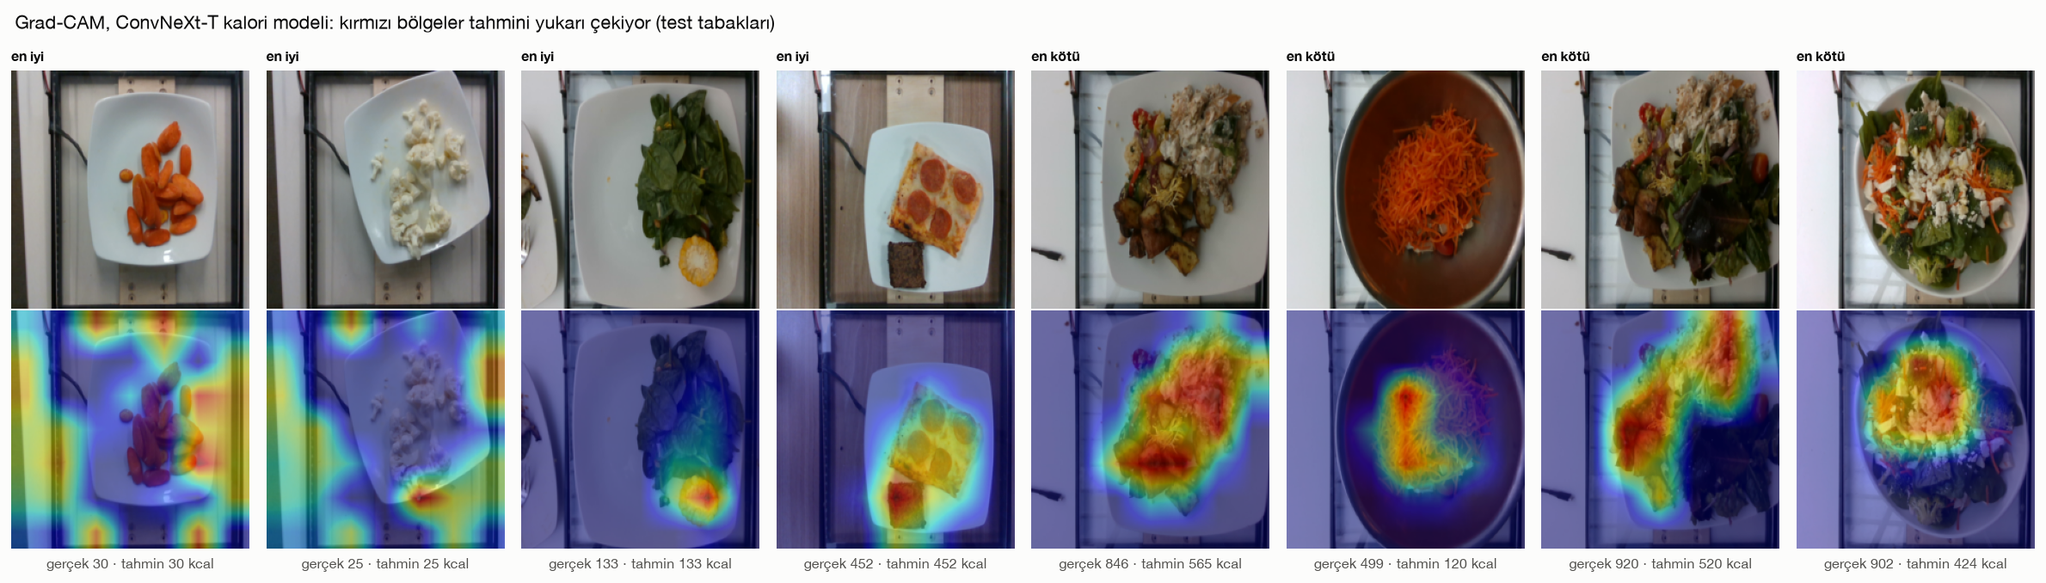
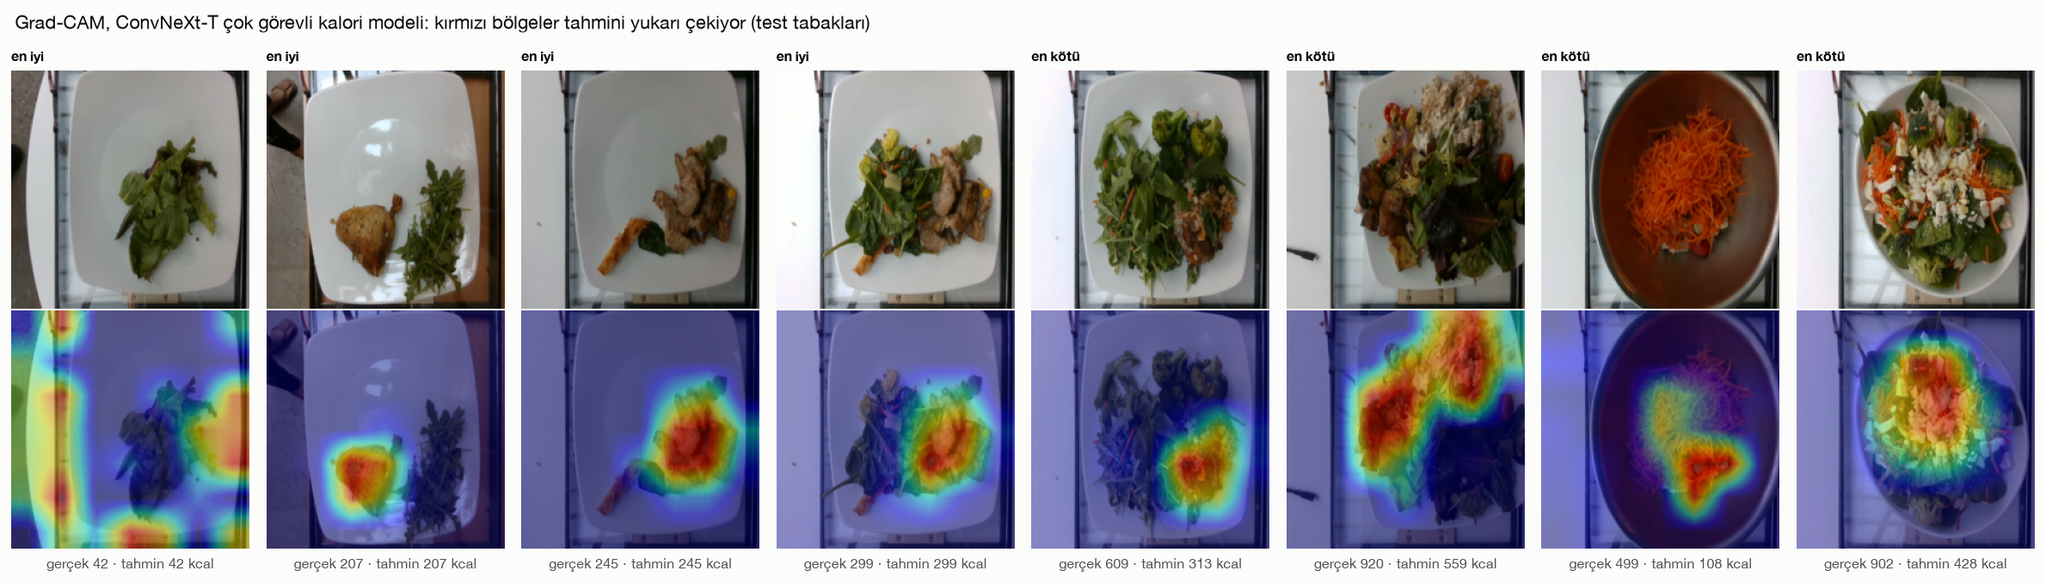
Adım 20: figürler final modellerle, ROC figürü, kod temizliği; README/context güncel

diff --git a/src/make_figures.py b/src/make_figures.py
@@ -17,11 +17,12 @@ görüntüleri kullanır (yoksa gri kutu çizilir). Her figür için README'ye y
     eval_model_karsilastirma.png  test MAE + %95 güven aralığı, literatür referans çizgileri
     eval_egitim_egrileri.png      doğrulama skoru – epoch
     eval_en_kotu_tabaklar.png     en kötü 20 tabak ızgarası, eval_en_kotu_20.csv → Adım 16
+    eval_roc.png                  ROC eğrileri (bire-karşı-hepsi): final sınıflandırıcının 25 sınıfı + modellerin makro
+                                  ortalaması; results/probs/ varsa (notebook 13)
     tablo1.md, tablo2.md, tablo3_kalori_araligi.md   rapora yapıştırılacak markdown tablolar
 
-TODO (Adım 16): Grad-CAM / attention haritaları için kanca — en kötü 20 tabağın kimlikleri eval_en_kotu_20.csv'de;
-checkpoint indirildikten sonra (Release `checkpoints`, ~111 MB) `src.models.build_model` ile yüklenip bu kimlikler
-üzerinde çalıştırılacak. Bu betik checkpoint gerektirmez.
+Grad-CAM (Adım 16) ayrı betikte: `python -m src.gradcam --ckpt checkpoints/<model>.pt` (checkpoint gerekir);
+en kötü 20 tabağın kimlikleri eval_en_kotu_20.csv'de. Bu betik checkpoint gerektirmez.
 """
 import argparse
 import math
@@ -31,7 +32,7 @@ import matplotlib.pyplot as plt
 import numpy as np
 import pandas as pd
 from PIL import Image
-from sklearn.metrics import confusion_matrix, f1_score
+from sklearn.metrics import auc, confusion_matrix, f1_score, roc_curve
 
 from . import plot_style
 from .config import CALORIE_BIN_EDGES, N5K_DIR, RESULTS_DIR
@@ -379,6 +380,40 @@ def fig_training_curves(hist_reg, hist_cls):
     return fig
 
 
+def macro_roc(y_true, probs, grid=None):
+    """Bire-karşı-hepsi ROC: sınıf eğrileri ve ortak FPR ızgarasında makro ortalama eğri (+ makro AUC)."""
+    grid = np.linspace(0, 1, 1001) if grid is None else grid
+    y_true, probs = np.asarray(y_true), np.asarray(probs, dtype=float)
+    curves, tprs = [], []
+    for k in range(probs.shape[1]):
+        fpr, tpr, _ = roc_curve(y_true == k, probs[:, k])
+        curves.append((fpr, tpr))
+        tprs.append(np.interp(grid, fpr, tpr))
+    mean_tpr = np.mean(tprs, axis=0)
+    mean_tpr[0] = 0.0
+    return curves, grid, mean_tpr, float(np.mean([auc(f, t) for f, t in curves]))
+
+
+def fig_roc(main_name, main_curves, macro):
+    """Sol: ana modelin 25 sınıf eğrisi (gri) + makro ortalaması. Sağ: modellerin makro eğrileri, FPR log ekseninde
+    (AUC'lar 0,997–0,998 olduğundan farklar yalnızca düşük FPR'de görünür)."""
+    fig, (a1, a2) = plt.subplots(1, 2, figsize=(10, 4.4))
+    for fpr, tpr in main_curves:
+        a1.plot(fpr, tpr, color=AXIS, lw=0.8)
+    grid, mean_tpr, mauc = macro[main_name]
+    a1.plot(grid, mean_tpr, color=SERIES[0], label=f"makro ortalama (AUC {fmt_tr(mauc, 3)})")
+    a1.plot([0, 1], [0, 1], ls=":", color=INK["muted"], lw=1)
+    a1.set(xlabel="Yanlış pozitif oranı", ylabel="Doğru pozitif oranı", title=f"ROC, sınıf başına — {main_name}")
+    a1.legend(loc="lower right")
+    for i, (name, (grid, mean_tpr, mauc)) in enumerate(macro.items()):
+        a2.plot(grid[1:], mean_tpr[1:], color=SERIES[i % len(SERIES)], lw=1.6, label=f"{name} ({fmt_tr(mauc, 3)})")
+    a2.set_xscale("log")
+    a2.set(xlim=(1e-3, 1), xlabel="Yanlış pozitif oranı (log)", ylabel="Doğru pozitif oranı", title="Makro ROC, modeller")
+    a2.legend(loc="lower right", fontsize=8)
+    fig.tight_layout()
+    return fig
+
+
 def fig_worst_dishes(worst, img_dir, ncols=5, w=2.6):
     """worst: id, y_true, y_pred, abs_error, has_fish. Görüntü yoksa gri kutu."""
     ncols = max(1, min(ncols, len(worst)))
@@ -406,10 +441,10 @@ def fig_worst_dishes(worst, img_dir, ncols=5, w=2.6):
 
 def parse_args(argv=None):
     ap = argparse.ArgumentParser(description="Adım 15 değerlendirme figürleri ve Tablo 1–3 (results/ kayıtlarından).")
-    ap.add_argument("--cls-model", default="vit_b16_cls", help="karışıklık matrisi ve sınıf F1 için model")
+    ap.add_argument("--cls-model", default="vit_b16_384_cls", help="karışıklık matrisi ve sınıf F1 için model")
     ap.add_argument("--cls-second", default="convnext_tiny_cls", help="sınıf F1 üstüne bindirilecek ikinci model ('' = yok)")
-    ap.add_argument("--reg-model", default="convnext_tiny_reg", help="saçılım, histogram ve en kötü tabaklar için model")
-    ap.add_argument("--reg-second", default="vit_b16_reg", help="histograma bindirilecek ikinci model ('' = yok)")
+    ap.add_argument("--reg-model", default="convnext_tiny_reg_mt", help="saçılım, histogram ve en kötü tabaklar için model")
+    ap.add_argument("--reg-second", default="convnext_tiny_reg", help="histograma bindirilecek ikinci model ('' = yok)")
     ap.add_argument("--worst-k", type=int, default=20)
     ap.add_argument("--results-dir", type=Path, default=RESULTS_DIR, help="results.csv, preds/, history/ burada; md/csv çıktıları buraya")
     ap.add_argument("--figures-dir", type=Path, default=None, help="varsayılan: <results-dir>/figures")
@@ -515,7 +550,22 @@ def main(argv=None):
     print(f"\nEn kötü {len(worst)} tabak → results/eval_en_kotu_20.csv  (balıklı: {int(worst.has_fish.sum())})")
     print(worst[["id", "y_true", "y_pred", "abs_error", "has_fish", "top_ingredients"]].round(0).to_string(index=False), "\n")
 
-    # 10. tablolar
+    # 10. ROC eğrileri (olasılıklar yalnızca notebook 13'ten sonra var)
+    probs_dir = results_dir / "probs"
+    roc_models = [m for m in HISTORY_CLS[::-1] if (probs_dir / f"{m}_test.npz").exists()]
+    if args.cls_model in roc_models:
+        macro, main_curves = {}, None
+        for m in roc_models:
+            d = np.load(probs_dir / f"{m}_test.npz")
+            curves, grid, mean_tpr, mauc = macro_roc(d["y_true"], d["probs"])
+            macro[fig_name(m)] = (grid, mean_tpr, mauc)
+            if m == args.cls_model:
+                main_curves = curves
+        save(fig_roc(cls_name, main_curves, macro), "eval_roc")
+        caption("eval_roc", f"ROC eğrileri (Food-101 test, bire-karşı-hepsi). Sol: {cls_name}, 25 sınıf (gri) ve makro "
+                "ortalama. Sağ: beş modelin makro eğrisi, yanlış pozitif oranı log ölçekte; parantezde makro ROC-AUC.")
+
+    # 11. tablolar
     for name, text in [("tablo1.md", tablo1_md(results)), ("tablo2.md", tablo2_md(results)),
                        ("tablo3_kalori_araligi.md", tablo3_md(results)),
                        ("tablo_ablation.md", tablo_ablation_md(results))]:

diff --git a/src/gradcam.py b/src/gradcam.py
@@ -1,8 +1,8 @@
 """Grad-CAM: kalori modelinin tabağın neresine baktığı (Adım 15 figürü).
 
 Kullanım:
-    python -m src.gradcam --ckpt checkpoints/convnext_tiny_reg.pt            # → results/figures/eval_gradcam.png
-    python -m src.gradcam --ckpt checkpoints/convnext_tiny_reg.pt --n 4 --device cpu
+    python -m src.gradcam --ckpt checkpoints/convnext_tiny_reg_mt.pt           # → results/figures/eval_gradcam.png
+    python -m src.gradcam --ckpt checkpoints/convnext_tiny_reg_mt.pt --n 4 --device cpu
 
 Regresyonda "sınıf skoru" yok; tahmin edilen kalorinin son evre özellik haritasına göre gradyanı alınır.
 Isı haritası kırmızıysa o bölge tahmini yukarı çekiyor. Hangi tabaklar: tahmin dosyasındaki en iyi n
@@ -59,7 +59,7 @@ def gradcam(model, x, layer):
 def main():
     ap = argparse.ArgumentParser(description=__doc__, formatter_class=argparse.RawDescriptionHelpFormatter)
     ap.add_argument("--ckpt", required=True)
-    ap.add_argument("--preds", default=str(RESULTS_DIR / "preds" / "convnext_tiny_reg.csv"))
+    ap.add_argument("--preds", default=str(RESULTS_DIR / "preds" / "convnext_tiny_reg_mt.csv"))
     ap.add_argument("--n", type=int, default=4, help="en iyi n + en kötü n tabak")
     ap.add_argument("--device", default="cpu", help="cpu güvenli; mps'te backward kancaları bazen boş döner")
     ap.add_argument("--out", default="eval_gradcam")
@@ -95,7 +95,7 @@ def main():
             a.set_xticks([]); a.set_yticks([]); a.grid(False)
             for sp in a.spines.values():
                 sp.set_visible(False)
-    fig.suptitle("Grad-CAM, ConvNeXt-T kalori modeli: kırmızı bölgeler tahmini yukarı çekiyor (test tabakları)", x=0.01, ha="left")
+    fig.suptitle("Grad-CAM, ConvNeXt-T çok görevli kalori modeli: kırmızı bölgeler tahmini yukarı çekiyor (test tabakları)", x=0.01, ha="left")
     fig.tight_layout()
     path = plot_style.savefig(fig, args.out, dpi=130)
     print(f"kaydedildi: {path}")

diff --git a/tests/test_make_figures.py b/tests/test_make_figures.py
@@ -114,11 +114,16 @@ def test_main_smoke_on_synthetic_data(tmp_path):
             ingr = ["ingr_1", "fish" if i % 5 == 0 else "rice", 100, c, 1, 1, 1]
             w.writerow([d, c, 150, 5, 20, 10] + ingr)
     _write_results(tmp_path / "results.csv", cls_models, reg_models)
+    (tmp_path / "probs").mkdir()
+    for m in ["vit_b16_384_cls", "convnext_tiny_cls"]:
+        probs = rng.dirichlet(np.ones(25), n_cls)
+        probs[np.arange(n_cls), y_true] += 1.0
+        np.savez(tmp_path / "probs" / f"{m}_test.npz", y_true=y_true, probs=probs / probs.sum(1, keepdims=True))
 
     captions = mf.main(["--results-dir", str(tmp_path), "--n5k-dir", str(tmp_path / "n5k")])
 
     names = {"eval_karisiklik_matrisi", "eval_sinif_f1", "eval_tahmin_gercek", "eval_hata_histogrami", "eval_aralik_mae",
-             "eval_model_karsilastirma", "eval_egitim_egrileri", "eval_en_kotu_tabaklar"}
+             "eval_model_karsilastirma", "eval_egitim_egrileri", "eval_en_kotu_tabaklar", "eval_roc"}
     assert {n for n, _ in captions} == names
     for n in names:
         assert (tmp_path / "figures" / f"{n}.png").stat().st_size > 1000
@@ -128,3 +133,15 @@ def test_main_smoke_on_synthetic_data(tmp_path):
     for name in ["tablo1.md", "tablo2.md", "tablo3_kalori_araligi.md"]:
         text = (tmp_path / name).read_text()
         assert text.startswith("| Tablo") and "," in text and "." not in text.split("\n")[2].split("|")[2]
+
+
+def test_macro_roc_matches_sklearn_macro_auc():
+    from sklearn.metrics import roc_auc_score
+    rng = np.random.default_rng(1)
+    y = np.repeat(np.arange(4), 30)
+    p = rng.dirichlet(np.ones(4), len(y))
+    p[np.arange(len(y)), y] += 0.3
+    p /= p.sum(1, keepdims=True)
+    curves, grid, mean_tpr, mauc = mf.macro_roc(y, p)
+    assert len(curves) == 4 and mean_tpr[0] == 0 and mean_tpr[-1] == pytest.approx(1)
+    assert mauc == pytest.approx(roc_auc_score(y, p, multi_class="ovr", average="macro"))

diff --git a/src/baselines.py b/src/baselines.py
@@ -54,6 +54,8 @@ def classification_baselines():
 
 
 if __name__ == "__main__":
+    import argparse
+    argparse.ArgumentParser(description=__doc__, formatter_class=argparse.RawDescriptionHelpFormatter).parse_args()
     calorie_baselines()
     if (FOOD101_DIR / "food-101" / "meta" / "train.json").exists():
         classification_baselines()

diff --git a/src/eval_cls.py b/src/eval_cls.py
@@ -11,7 +11,6 @@ import argparse
 from pathlib import Path
 
 import numpy as np
-import torch
 
 from .config import IMG_SIZE, RESULTS_DIR, get_device
 from .data import FOOD101_CLASSES, Food101Subset

diff --git a/README.md b/README.md
@@ -173,35 +173,42 @@ Gemini 3.5 Flash-Lite, 512 px JPEG, sıcaklık 0, sabit prompt (kalemler + gram 
 
 ### Değerlendirme bulguları (Adım 15, `python -m src.make_figures` + `python -m src.gradcam`)
 
-Bütün figürler `results/preds/` ve `results/history/` dosyalarından üretilir; GPU ve checkpoint gerekmez (yalnızca Grad-CAM için `checkpoints/convnext_tiny_reg.pt`). Rapora yapıştırmaya hazır tablolar: `results/tablo1.md`, `tablo2.md` (precision/recall ve RMSE dahil), `tablo3_kalori_araligi.md` (ROC-AUC sütunuyla: final model 0,960, VLM 0,884, naif 0,500), `tablo_ablation.md` (Adım 17). Tablo 1'in ROC-AUC sütunu notebook 13 ile doldu (0,997–0,998).
+Bütün figürler `results/preds/` ve `results/history/` dosyalarından üretilir; GPU ve checkpoint gerekmez (yalnızca Grad-CAM için `checkpoints/convnext_tiny_reg_mt.pt`). **13 Kasım (Adım 20):** figürler final modellerle yeniden üretildi (kalori: ConvNeXt-T çok görevli, sınıflandırma: ViT-B/16 384 px; betiklerin varsayılanı artık bunlar) ve ROC figürü eklendi. Rapora yapıştırmaya hazır tablolar: `results/tablo1.md`, `tablo2.md` (precision/recall ve RMSE dahil), `tablo3_kalori_araligi.md` (ROC-AUC sütunuyla: final model 0,960, VLM 0,884, naif 0,500), `tablo_ablation.md` (Adım 17). Tablo 1'in ROC-AUC sütunu notebook 13 ile doldu (0,997–0,998).
 
-| Tablo 3 · Kalori aralığı (düşük < 116,1 ≤ orta < 313,7 ≤ yüksek kcal, test) | Doğruluk | Precision (macro) | Recall (macro) | Macro-F1 [%95 GA] |
-| --- | --- | --- | --- | --- |
-| Naif: train ortalaması | %31,4 | 0,104 | 0,333 | 0,159 [0,142–0,174] |
-| Donmuş ResNet-50 → XGBoost | %74,2 | 0,771 | 0,742 | 0,747 [0,708–0,785] |
-| ResNet-50 (timm başlatması) | %80,5 | 0,814 | 0,804 | 0,806 [0,768–0,839] |
-| ResNet-50 çok görevli | %79,9 | 0,808 | 0,798 | 0,799 [0,763–0,832] |
-| EfficientNet-B0 | %81,7 | 0,821 | 0,815 | 0,817 [0,781–0,848] |
-| ViT-B/16 | %86,0 | 0,861 | 0,859 | 0,859 [0,827–0,889] |
-| ConvNeXt-T | %86,2 | 0,864 | 0,861 | 0,861 [0,828–0,889] |
+| Tablo 3 · Kalori aralığı (düşük < 116,1 ≤ orta < 313,7 ≤ yüksek kcal, test) | Doğruluk | Precision (macro) | Recall (macro) | Macro-F1 [%95 GA] | ROC-AUC (OvR, macro) |
+| --- | --- | --- | --- | --- | --- |
+| Naif: train ortalaması | %31,4 | 0,104 | 0,333 | 0,159 [0,142–0,174] | 0,500 |
+| Donmuş ResNet-50 → XGBoost | %74,2 | 0,771 | 0,742 | 0,747 [0,708–0,785] | 0,899 |
+| ResNet-50 (timm başlatması) | %80,5 | 0,814 | 0,804 | 0,806 [0,768–0,839] | 0,933 |
+| ResNet-50 (erken durdu, 14/30) | %79,1 | 0,804 | 0,790 | 0,790 [0,756–0,826] | 0,922 |
+| ResNet-50 çok görevli | %79,9 | 0,808 | 0,798 | 0,799 [0,763–0,832] | 0,936 |
+| EfficientNet-B0 (hatalı başlatma) | %59,8 | 0,611 | 0,595 | 0,600 [0,558–0,639] | 0,797 |
+| EfficientNet-B0 | %81,7 | 0,821 | 0,815 | 0,817 [0,781–0,848] | 0,943 |
+| ViT-B/16 | %86,0 | 0,861 | 0,859 | 0,859 [0,827–0,889] | 0,958 |
+| ConvNeXt-T | %86,2 | 0,864 | 0,861 | 0,861 [0,828–0,889] | 0,956 |
+| ConvNeXt-T çok görevli | %87,0 | 0,872 | 0,869 | 0,869 [0,837–0,897] | 0,960 |
+| ConvNeXt-T, log1p hedef | %87,2 | 0,875 | 0,871 | 0,871 [0,839–0,899] | 0,962 |
+| ConvNeXt-T, artırmasız | %85,6 | 0,862 | 0,856 | 0,857 [0,825–0,885] | 0,953 |
+| VLM sıfır-atış (Gemini 3.5 Flash-Lite) | %75,7 | 0,750 | 0,752 | 0,751 [0,713–0,784] | 0,884 |
 
 | Figür | Dosya (`results/figures/`) | Açıklama |
 | --- | --- | --- |
-| Karışıklık matrisi | `eval_karisiklik_matrisi.png` | ViT-B/16, Food-101 25 sınıf, test; satırlar gerçek sınıf, hücreler satır içi yüzde; yalnızca ≥ %2'lik karışmalar yazılı |
-| Sınıf başına F1 | `eval_sinif_f1.png` | ViT-B/16 çubuk, ConvNeXt-T nokta; en zor sınıflar en altta (apple pie 0,89) |
-| Tahmin–gerçek | `eval_tahmin_gercek.png` | ConvNeXt-T test tahminleri; gölgeli bant ±100 kcal; turuncu = 23 balıklı tabak |
-| Hata histogramı | `eval_hata_histogrami.png` | İşaretli hata (tahmin − gerçek), ConvNeXt-T ve ViT-B/16; ortalama −12, medyan +1 kcal |
+| Karışıklık matrisi | `eval_karisiklik_matrisi.png` | ViT-B/16 384 px, Food-101 25 sınıf, test; satırlar gerçek sınıf, hücreler satır içi yüzde; yalnızca ≥ %2'lik karışmalar yazılı |
+| Sınıf başına F1 | `eval_sinif_f1.png` | ViT-B/16 384 px çubuk, ConvNeXt-T nokta; en zor sınıflar en altta (apple pie 0,91) |
+| ROC eğrileri | `eval_roc.png` | Sol: ViT-B/16 384 px, 25 sınıfın bire-karşı-hepsi eğrisi + makro ortalama (AUC 0,998). Sağ: beş modelin makro eğrisi, FPR log ölçekte (farklar yalnızca FPR < %1'de görünür) |
+| Tahmin–gerçek | `eval_tahmin_gercek.png` | ConvNeXt-T çok görevli test tahminleri; gölgeli bant ±100 kcal; turuncu = 23 balıklı tabak |
+| Hata histogramı | `eval_hata_histogrami.png` | İşaretli hata (tahmin − gerçek), ConvNeXt-T çok görevli ve tek görevli; ortalama −11, medyan −1 kcal |
 | Aralık başına MAE | `eval_aralik_mae.png` | Gerçek kalori aralığına göre test MAE, tüm kalori modelleri (`results/eval_aralik_mae.csv`) |
 | Model karşılaştırma | `eval_model_karsilastirma.png` | Test MAE + %95 GA; literatür çizgileri 80,7 / 70,6 ve 37–40 bandı |
 | Eğitim eğrileri | `eval_egitim_egrileri.png` | Val skoru – epoch; nokta = saklanan en iyi epoch |
-| En kötü 20 tabak | `eval_en_kotu_tabaklar.png` | ConvNeXt-T, mutlak hata; liste `results/eval_en_kotu_20.csv` |
-| Grad-CAM | `eval_gradcam.png` | ConvNeXt-T; en iyi 4 ve en kötü 4 test tabağı, kırmızı = tahmini yukarı çeken bölge |
+| En kötü 20 tabak | `eval_en_kotu_tabaklar.png` | ConvNeXt-T çok görevli, mutlak hata; liste `results/eval_en_kotu_20.csv` |
+| Grad-CAM | `eval_gradcam.png` | ConvNeXt-T çok görevli; en iyi 4 ve en kötü 4 test tabağı, kırmızı = tahmini yukarı çeken bölge |
 
-1. **Hata kaloriyle birlikte büyüyor.** ConvNeXt-T'de aralık başına MAE: düşük 16, orta 32, yüksek 76 kcal (naif: 201 / 54 / 241). Modeller arasındaki fark en çok yüksek aralıkta açılıyor.
-2. **En kötü 20 tabağın 18'i yüksek kalorili tabakların eksik tahmini** (gerçek 380–1013, tahmin 120–768 kcal). Ortak örüntü: yeşilliğin altına gizlenmiş 100–240 g tavuk/sığır/domuz (ör. 902 → 424 kcal, 205 g tavuk + brokoli). Tek fazla tahmin var (117 → 323). Grad-CAM bunu doğruluyor: kötü tahminlerde model yemeğin üstündeki yeşilliğe bakıyor, altındaki proteini görmüyor. Balık en kötü 20'nin yalnızca 3'ünde, yani ortalama balık hatasını yükseltiyor ama en büyük hataların sebebi değil.
-3. **Kardeş tabaklar listede çift çift görünüyor:** üç çift (`1565811139/1565811061`, `1566414412/1566414342`, `1563389626/1563389600`) aynı tabağın art arda halleri. Bir tabak (`1558373159`, 1013 kcal) malzeme listesinde 142 g "deprecated" içeriyor → etiket kalitesi sorunu, raporda örnek olarak verilebilir.
-4. **Sınıflandırmada hatalar beklenen çiftlerde toplanıyor:** apple pie → pancakes 7, caesar → greek salad 7, fried rice ↔ risotto 7+6, carbonara → bolognese 6, lasagna → omelette 6, pizza → lasagna 6 (`results/eval_karisan_ciftler.csv`). Apple pie en zayıf sınıf (recall %85) ve ilk 10 çiftin 4'ünde var; EDA'da bilerek bırakılan karışabilir çiftler tam da hatanın toplandığı yer.
-5. **Tablo 3'te ConvNeXt-T ile ViT-B/16 ayırt edilemiyor** (0,861 ve 0,859, GA'lar üst üste); üç aralıklı sınıflandırma MAE'deki farkı görmeye yetmiyor.
+1. **Hata kaloriyle birlikte büyüyor.** Final modelde (ConvNeXt-T çok görevli) aralık başına MAE: düşük 16, orta 31, yüksek 73 kcal (naif: 201 / 54 / 241). Modeller arasındaki fark en çok yüksek aralıkta açılıyor.
+2. **En kötü 20 tabağın 19'u eksik tahmin** (gerçek 380–1051, tahmin 108–867 kcal; final model, tek görevli modelin listesiyle 17 ortak). Ortak örüntü: yeşilliğin altına gizlenmiş 100–240 g tavuk/sığır/domuz (ör. 902 → 428 kcal, 205 g tavuk + brokoli). Tek fazla tahmin var (252 → 419, brownie). Grad-CAM bunu doğruluyor: kötü tahminlerde model yemeğin üstündeki yeşilliğe bakıyor, altındaki proteini görmüyor. Balık en kötü 20'nin yalnızca 2'sinde, yani ortalama balık hatasını yükseltiyor ama en büyük hataların sebebi değil.
+3. **Kardeş tabaklar listede çift çift görünüyor:** üç çift (`1565811139/1565811061`, `1566414412/1566414342`, `1560367952/1560367980`) aynı tabağın art arda halleri. Bir tabak (`1558373159`, 1013 kcal) malzeme listesinde 142 g "deprecated" içeriyor → etiket kalitesi sorunu, raporda örnek olarak verilebilir.
+4. **Sınıflandırmada hatalar beklenen çiftlerde toplanıyor:** ViT-B/16 384 px'te fried rice ↔ risotto 7+7, apple pie → pancakes 6, hamburger → hot dog 6, ice cream ↔ apple pie 6+5, lasagna → apple pie 6, greek → caesar salad 5 (`results/eval_karisan_ciftler.csv`). Apple pie en zayıf sınıf (F1 0,91, recall %92) ve ilk 10 çiftin 4'ünde var; EDA'da bilerek bırakılan karışabilir çiftler tam da hatanın toplandığı yer.
+5. **Tablo 3'te en iyi ConvNeXt-T türevleri ile ViT-B/16 ayırt edilemiyor** (0,857–0,871, GA'lar üst üste); üç aralıklı sınıflandırma MAE'deki farkı görmeye yetmiyor.
 6. **Adım 16–17 için seçilen teknikler (kanıta dayalı):** (a) yüksek kalori eksik tahmini → `log1p` hedef veya göreli kayıp ablation'ı (`train_reg.py --target log1p` hazır), kütle-farkındalı başlık (çok görevli ConvNeXt-T); (b) kardeş sızıntısı → test tabaklarını `time_groups` ile gruplayıp "dizinin ilk tabağı" ve "sonrakiler" için MAE'yi ayrı raporlamak; (c) balık MAE'si ayrı sütun olarak (yapıldı); (d) sınıflandırmada apple pie / tatlı karışmaları için hedefli augmentasyon veya daha yüksek çözünürlük (ViT 384) ablation'ı.
 
 ### Kardeş-sızıntısı ölçümü (Adım 16, `python -m src.leakage`)
@@ -247,7 +254,7 @@ EDA'daki endişe: resmi test tabaklarının %22'sinin train'de "kardeşi" var (1
 | 4 | Değerlendirme + VLM referansı | Adım 15 ✅ (figürler, Tablo 1–3) · Adım 14 ✅ (Gemini 3.5 Flash-Lite 82,1 kcal, 507 tabak) |
 | 5–6 | Final model (Adım 18) | ✅ Kalori: ConvNeXt-T çok görevli (40,3 kcal; `checkpoints/convnext_tiny_reg_mt.pt`, demo varsayılanı). Sınıflandırma: ViT-B/16 384 px (F1 0,957). Gerekçe §2 ablation madde 1 ve 4. Ekip itiraz ederse tek satırlık değişiklik |
 | 5 | İyileştirme ve ablation | Adım 16 ✅ (hata analizi §2; kardeş-sızıntısı ölçüldü, etkisi yok) · Adım 17 ✅ (`notebooks/12_ablation_kaggle_adim17.ipynb`; ablation tablosu ve bulguları §2'de) |
-| — | Tablolar, figürler, kodun temizlenmesi | Tablolar + figürler ✅ (`src/make_figures.py` ile yeniden üretilir) · kod temizliği ⬜ |
+| — | Tablolar, figürler, kodun temizlenmesi | Tablolar + figürler ✅ (`src/make_figures.py` ile yeniden üretilir; final modellerle, ROC figürü dahil) · kod temizliği ✅ (Adım 20, 13 Kasım) |
 | 6–7 | Rapor ve sunum | ⬜ Geliştirmeden sonra |
 
 **Kısaca:** Adım 1–17 bitti. En iyiler: sınıflandırmada **ViT-B/16 384 px, F1 0,957**; kaloride **ConvNeXt-T çok görevli, test MAE 40,3 kcal (PMAE %15,8)**, tek görevli ConvNeXt-T'den (41,4) anlamlı farklı değil. Ablation: veri artırması anlamlı (+4,7 kcal onsuz), `log1p` ve çok görevli başlık anlamsız fark, 384 px küçük ama anlamlı F1 kazancı ve 4 kat maliyet. VLM referansı (Gemini 3.5 Flash-Lite) **82,1 kcal**: literatürdeki 80,7 ile tutarlı, ConvNeXt-T'den anlamlı kötü, klasik ML ile başa baş. Hata analizi: en büyük hatalar yeşilliğin altına gizlenmiş proteinli yüksek kalorili tabaklarda (Grad-CAM doğruluyor); kardeş-sızıntısı test MAE'sini iyimser yapmıyor (ölçüldü, §2). Final (Adım 18): kalori ConvNeXt-T çok görevli, sınıflandırma ViT-B/16 384 px; §1'de özet. Sıradaki: **Adım 19** (kendi fotoğraflarımız; demo hazır), **Adım 20** (toparlama).
@@ -292,9 +299,9 @@ Adımlar sırayla yapılır; her adımın bir çıktısı ve bir "bitti" kriteri
 | 19 | 9 | Demo: fotoğraf yükle → kcal (`app.py` iskeleti hazır) + kendi fotoğraflarımızla test (§7 Faz 4) | Çalışan demo, kısa bir video kaydı, `own_photos` satırları |
 | 20 | 9 | Toparlama: figürlerin son hali, kod temizliği, README | `main` dalında baştan sona çalışan kod. **Kontrol noktası 3** |
 
-**Durum (2 Kasım):** Adım 1–18 ✅ · Adım 19 web demosu ✅ yayında (fotoğraflar bekleniyor) · Adım 20 ⏳ · Teslim kuralları §9'da; ROC-AUC (notebook 13) ✅ 13 Kasım · Kontrol noktası 1 ✅ · Kontrol noktası 2 ✅
+**Durum (2 Kasım):** Adım 1–18 ✅ · Adım 19 web demosu ✅ yayında (fotoğraflar bekleniyor) · Adım 20 ✅ kod + figürler (README sadeleştirme fotoğraflardan sonra) · Teslim kuralları §9'da; ROC-AUC (notebook 13) ✅ 13 Kasım · Kontrol noktası 1 ✅ · Kontrol noktası 2 ✅
 
-**Adım 18 — final model (1 Kasım):** kalori için **ConvNeXt-T çok görevli** (`convnext_tiny_reg_mt`: 40,3 kcal; tek görevliyle fark anlamsız, kütle + makro çıktıları bedava), sınıflandırma için **ViT-B/16 384 px** (0,957; hız gerekiyorsa ConvNeXt-T 0,941 ile 6,5 kat hızlı). Final test ölçümleri `results.csv`'de (Adım 17 satırları, yeniden ölçüm gerekmedi: test bir kez, Kaggle'da ölçüldü); özet §1'de, "Bu çalışma" satırı §2 Hedeflerimiz'de. Checkpoint `checkpoints/convnext_tiny_reg_mt.pt` Mac'te (git dışı; Release'ten `GH_TOKEN=$(gh auth token) python scripts/share_checkpoint.py download convnext_tiny_reg_mt.pt`). Demo (`python app.py`) bu modelle doğrulandı: kalori CSV'deki tahminle birebir, altta kütle ve makrolar görünüyor. Adım 15'teki figürler ve hata analizi tek görevli ConvNeXt-T içindir; iki modelin tahminleri %99,3 korelasyonlu, "en kötü 20" listesinin 17'si ortak, bu yüzden analiz final model için de geçerli ve figürler yeniden üretilmedi (ekip isterse `python -m src.make_figures --reg-model convnext_tiny_reg_mt --reg-second convnext_tiny_reg` ve `python -m src.gradcam --ckpt checkpoints/convnext_tiny_reg_mt.pt`).
+**Adım 18 — final model (1 Kasım):** kalori için **ConvNeXt-T çok görevli** (`convnext_tiny_reg_mt`: 40,3 kcal; tek görevliyle fark anlamsız, kütle + makro çıktıları bedava), sınıflandırma için **ViT-B/16 384 px** (0,957; hız gerekiyorsa ConvNeXt-T 0,941 ile 6,5 kat hızlı). Final test ölçümleri `results.csv`'de (Adım 17 satırları, yeniden ölçüm gerekmedi: test bir kez, Kaggle'da ölçüldü); özet §1'de, "Bu çalışma" satırı §2 Hedeflerimiz'de. Checkpoint `checkpoints/convnext_tiny_reg_mt.pt` Mac'te (git dışı; Release'ten `GH_TOKEN=$(gh auth token) python scripts/share_checkpoint.py download convnext_tiny_reg_mt.pt`). Demo (`python app.py`) bu modelle doğrulandı: kalori CSV'deki tahminle birebir, altta kütle ve makrolar görünüyor. Adım 15 figürleri ve hata analizi 13 Kasım'da (Adım 20) final modellerle yeniden üretildi; tek görevli modelin en kötü 20 listesiyle 17 tabak ortak, bulgular değişmedi (§2 "Değerlendirme bulguları").
 
 **Sıradaki adım:**
 0. **Adım 19 fotoğrafları** (tek eksik sizden): 15–20 tabak fotoğrafı + tartı (§7 Faz 4). Fotoğraflar `own_photos/` + `labels.csv`'ye konunca `python -m src.eval_own_photos --ckpt checkpoints/convnext_tiny_reg_mt.pt --model convnext_tiny_reg_mt` sonucu `results.csv`'ye `own_photos`, `own_photos_ust`, `own_photos_yan` satırları olarak yazar. Demo: `python app.py` (Mac'te) veya Vercel'deki statik sürüm (§7 "Web demosu"; Vercel projesini kullanıcı bağlar: Root Directory `web`).
@@ -682,6 +689,7 @@ Kaynak: `Yapay_Zeka_Proje_Teslim_ve_Sunum_Kurallari.docx` (hoca, 2 Kasım). Tesl
 
 | Tarih | Kim | Son tamamlanan adım | Yarım kalan iş / sıradaki adım | Notlar (değişen ayarlar, sorunlar) |
 | --- | --- | --- | --- | --- |
+| 2026-11-13 | traldo | Adım 20 (kod + figürler): figürler final modellerle (ViT-B/16 384 px, ConvNeXt-T çok görevli) yeniden üretildi, `eval_roc.png` eklendi, Grad-CAM final modelle; `make_figures`/`gradcam` varsayılanları final modeller; kullanılmayan import ve eskimiş TODO temizlendi; tüm CLI'lar `--help` ile açılıyor; 64 test | Adım 19 fotoğrafları → sonra README'nin rapor için son hali · rapor/sunum (ekip yazar) | `src.baselines` daha önce argüman almıyordu: `--help` bile baseline'ları yeniden çalıştırıp `results.csv`'ye yinelenen satır yazıyordu; artık argparse var. Bulgu sayıları final modele göre güncellendi (en kötü 20: 19 eksik tahmin, 2 balıklı; apple pie F1 0,91) |
 | 2026-11-13 | traldo | Notebook 13 ✅ (Kaggle): 5 sınıflandırma modeli ROC-AUC ile yeniden değerlendirildi; Tablo 1'de ROC-AUC sütunu (0,997–0,998, ViT-384 0,998) | Adım 19 fotoğrafları · Adım 20 toparlama · rapor/sunum (ekip yazar) | F1'ler ilk run'larla birebir. ROC-AUC tavanda olduğu için modelleri ayırmıyor; karşılaştırma Macro-F1 ile. Olasılıklar `results/probs/*.npz` (~2 MB). İlk Kaggle denemesi push etmedi, ikincisi geçti |
 | 2026-11-02 | traldo | Hocanın teslim kuralları işlendi (§9); ROC-AUC eklendi: `metrics.macro_ovr_auc`, `bin_scores`, `results.csv`'ye `roc_auc` sütunu (33 calorie_bins satırı geri dolduruldu), Tablo 1/3'te sütun, `src/eval_cls.py`, notebook 13 | Notebook 13'ü Kaggle'da çalıştır (Tablo 1 ROC-AUC) · fotoğraflar · rapor/sunum (ekip yazar, YZ oranı ≤ %40) | Teslim: rapor + kod + sunum → yapayzekaproje80@gmail.com, tarih yok. Web demosu yayında: https://kalori-tahmini-web.vercel.app (Worker'da çıkarım, Cache API) |
 | 2026-11-01 | traldo | Adım 19 web demosu, Vercel sürümü ✅ (`web/`: tarayıcı içi ONNX, `scripts/export_onnx.py`) | kendi fotoğraflar · Adım 20 (README'yi rapora hazırla) | HF Gradio Space ücretsiz hesapta kapandı (402). Model int8 ONNX 28 MB, doğruluk kaybı yok (100 tabakta 39,9 → 40,0). Sayfa çerçevesiz HTML/JS, onnxruntime-web CDN; Gradio demosu (`app.py`) sade temayla yeniden tasarlandı, ikisi aynı sonuç kartını gösterir. `onnx`, `onnxruntime` requirements'a eklendi |

diff --git a/context.md b/context.md
@@ -7,7 +7,7 @@ Bu dosya, projeye başka bir Claude hesabından/oturumundan devam edebilmek içi
 - **Kullanıcı:** Mert Aydıngüneş (git kimliği `Mert Aydıngüneş <aydingunesmert@gmail.com>`, GitHub/Kaggle `traldo44`, HF `traldo`). Türkçe yazar, Türkçe yanıt ister. Kendini kod hatırlamakta zayıf diye tanımlar; az soru, somut varsayılan, hızlı ilerleme ister ("bitti mi", "devam"). Ekip arkadaşı planı yazdı, henüz GitHub'a eklenmedi (kullanıcı adı bilinmiyor).
 - **Proje:** Yapay Zekâ dersi bitirme projesi: tek bir üstten yemek fotoğrafından kalori (+ kütle, makro) tahmini; ayrıca Food-101 (25 sınıf) yemek türü sınıflandırması; klasik ML, literatür ve sıfır-atış VLM ile karşılaştırma.
 - **Repo:** `~/Desktop/kalori-tahmini`, özel GitHub reposu `https://github.com/traldo44/kalori-tahmini`, dal `main`. İş akışı: özellik dalı → `git merge --no-ff` → `main` → push. `results/results.csv` için `merge=union`.
-- **Ortam:** `.venv` (Python 3.12, uv ile; **venv'de pip yok** → paket için `uv pip install --python .venv/bin/python <paket>`; düz `pip` sistemin Python 3.9'una kurar, yanlış). Testler: `.venv/bin/python -m pytest -q` (şu an 63 test geçiyor). Mac M4, torch MPS çalışır; ağır eğitim Kaggle'da.
+- **Ortam:** `.venv` (Python 3.12, uv ile; **venv'de pip yok** → paket için `uv pip install --python .venv/bin/python <paket>`; düz `pip` sistemin Python 3.9'una kurar, yanlış). Testler: `.venv/bin/python -m pytest -q` (şu an 64 test geçiyor). Mac M4, torch MPS çalışır; ağır eğitim Kaggle'da.
 - **Veri (git dışı):** `data/nutrition5k` (üst kamera RGB, metadata), `data/food101` (25 sınıf alt küme, GitHub Release `data`), `data/food101_raw` (~5 GB ham, silinebilir). Checkpoint'ler GitHub Release `checkpoints`'ta; Mac'te `checkpoints/convnext_tiny_reg.pt` ve `checkpoints/convnext_tiny_reg_mt.pt` (111 MB'şar) var.
 - **Canlı demo:** https://kalori-tahmini-web.vercel.app (Vercel, GitHub `main`'den otomatik; kök dizin `web/`). Model tarayıcıda çalışır (int8 ONNX, 28 MB, Web Worker'da). Mac demosu: `python app.py` (Gradio), `--lan` ile aynı Wi-Fi'dan telefon.
 
@@ -33,13 +33,13 @@ Nutrition5k: 2472 train / 280 val (zaman gruplu) / 507 test; Food-101 alt kümes
 
 Diğer bulgular: en büyük hatalar yeşillik altına gizlenmiş proteinli yüksek kalorili tabaklar (Grad-CAM doğruluyor); balıklı tabaklar 1,7–1,9× kötü (etiket eksik); kardeş-sızıntısı ölçüldü, etkisi yok (`src/leakage.py`); modelin "yemek değil" çıkışı yok (telefon fotoğrafına 30 kcal dedi; sitede <50 kcal uyarısı var). Araştırma sorusunun cevabı: çok görevli öğrenme kaloriyi iyileştirmiyor ama aynı maliyetle kütle+makro veriyor.
 
-Hazır malzeme: `results/tablo1.md`, `tablo2.md`, `tablo3_kalori_araligi.md`, `tablo_ablation.md` (`python -m src.make_figures` yeniler), 21 figür `results/figures/` (eval_* ve EDA n5k_*/f101_*), `results/data_card_*.csv`, 39 makalelik literatür matrisi ekip arkadaşının Claude Docs belgesinde (README başlığındaki link; bu hesaptan okunamıyor, kullanıcıdan istenmeli).
+Hazır malzeme: `results/tablo1.md`, `tablo2.md`, `tablo3_kalori_araligi.md`, `tablo_ablation.md` (`python -m src.make_figures` yeniler), 22 figür `results/figures/` (eval_* final modellerle) (eval_* ve EDA n5k_*/f101_*), `results/data_card_*.csv`, 39 makalelik literatür matrisi ekip arkadaşının Claude Docs belgesinde (README başlığındaki link; bu hesaptan okunamıyor, kullanıcıdan istenmeli).
 
 ## 4. Bekleyenler (hepsi kullanıcı girdisine bağlı)
 
 1. ~~Notebook 13~~ ✅ 13 Kasım: Tablo 1'de ROC-AUC 0,997–0,998 (modelleri ayırmıyor, karşılaştırma F1 ile).
 2. **Adım 19, kendi fotoğraflar:** 15–20 tabak tam üstten (+5–6 yandan), gerçek kalori tartı/etiketle `own_photos/labels.csv`'ye (sütunlar `file,calories,angle(ust|yan),source,notes`). Sonra `python -m src.eval_own_photos --ckpt checkpoints/convnext_tiny_reg_mt.pt --model convnext_tiny_reg_mt` → `results.csv`'ye `own_photos*` satırları; README'ye sınırlılık bulgusu.
-3. **Adım 20, toparlama:** fotoğraf sonuçları girince README'yi rapora hazır hale getir (kod temiz; `ruff` yok, AST taraması yapıldı).
+3. **Adım 20, toparlama:** kod temizliği + figürlerin final modellerle yeniden üretilmesi ✅ (13 Kasım, `eval_roc.png` eklendi). Kalan: fotoğraf sonuçları girince README'nin rapor için son hali.
 4. **Rapor ve sunum (ekip yazar):** hocanın bölüm listesi ve bizdeki karşılıkları README §9'da. Sunum sırası hocanın "Sunum İçeriği" listesiyle aynı; demo adresi canlı. Teslim: rapor + kod + sunum → yapayzekaproje80@gmail.com; **teslim tarihi bilinmiyor**, kullanıcıya sorulmalı.
 5. Küçük: ekip arkadaşını GitHub'a ekle (kullanıcı adı lazım), Gemini anahtarını yenile, README §3 "Açık konular" (araştırma sorusu metni, iş bölümü).
 
@@ -47,7 +47,7 @@ Hazır malzeme: `results/tablo1.md`, `tablo2.md`, `tablo3_kalori_araligi.md`, `t
 
 ```
 cd ~/Desktop/kalori-tahmini && source .venv/bin/activate
-python -m pytest -q                                   # 63 test
+python -m pytest -q                                   # 64 test
 python -m src.make_figures                            # figürler + tablo md'leri
 python -m src.compare results/preds/a.csv results/preds/b.csv
 python -m src.leakage                                 # kardeş-sızıntısı
